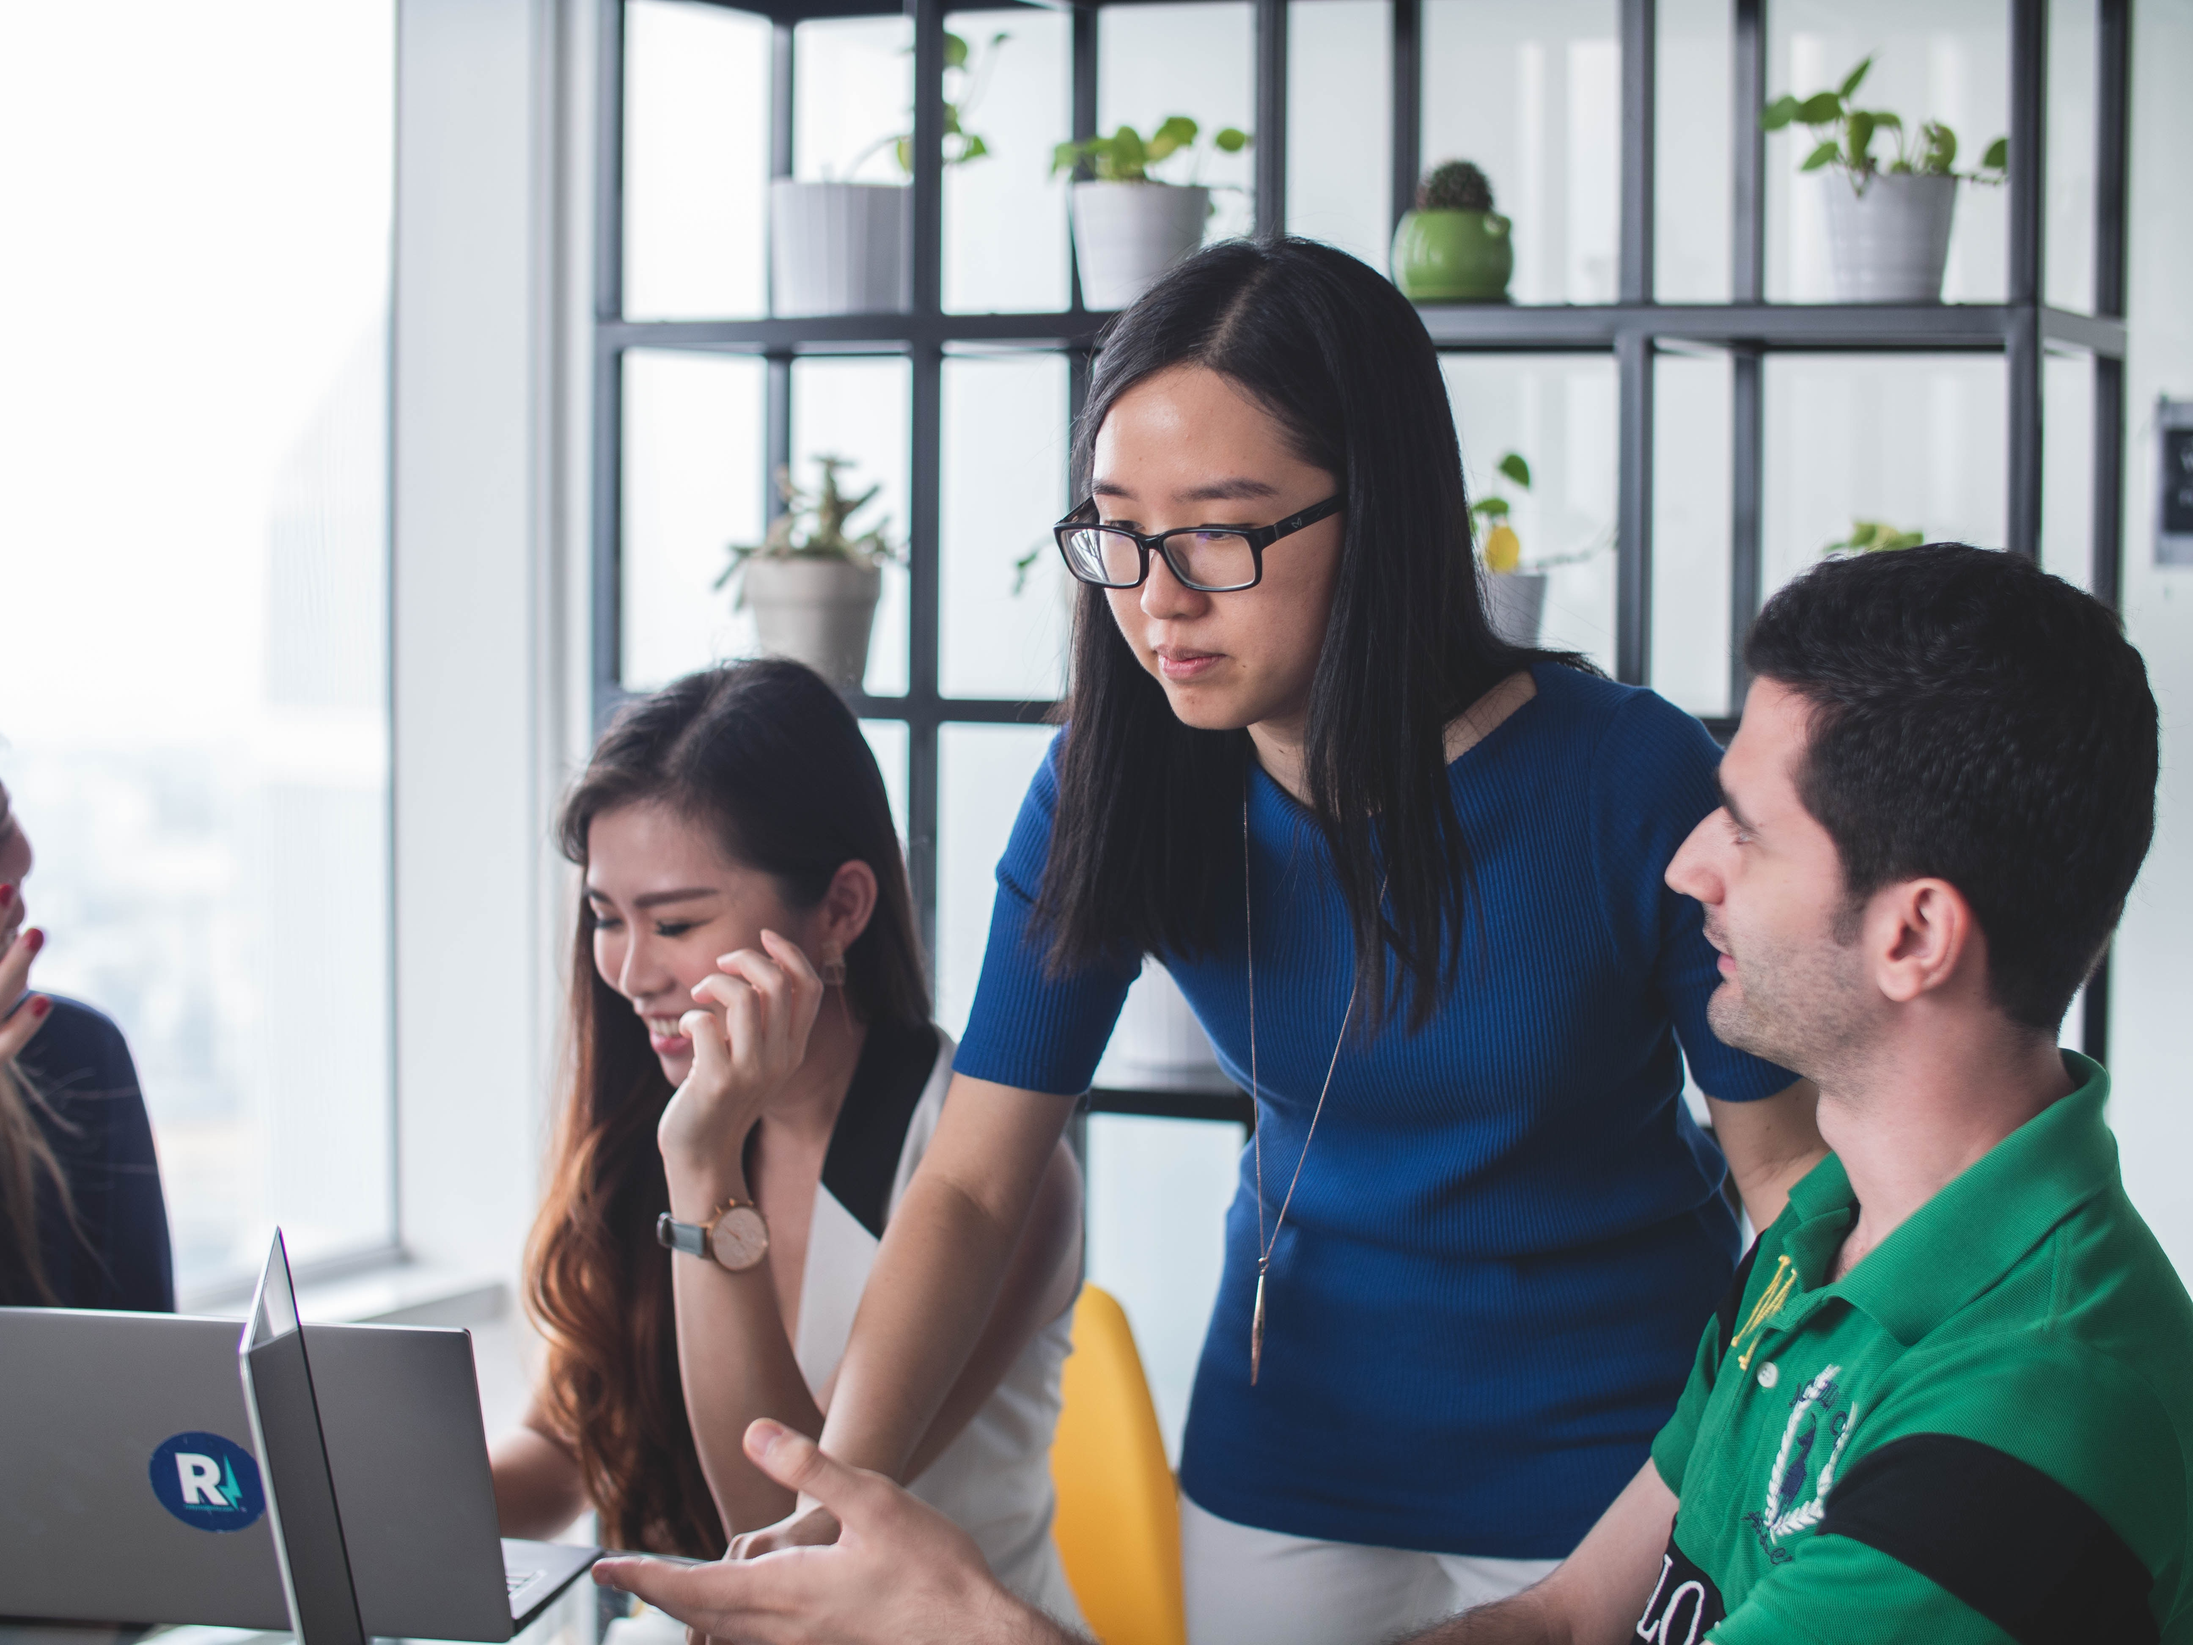
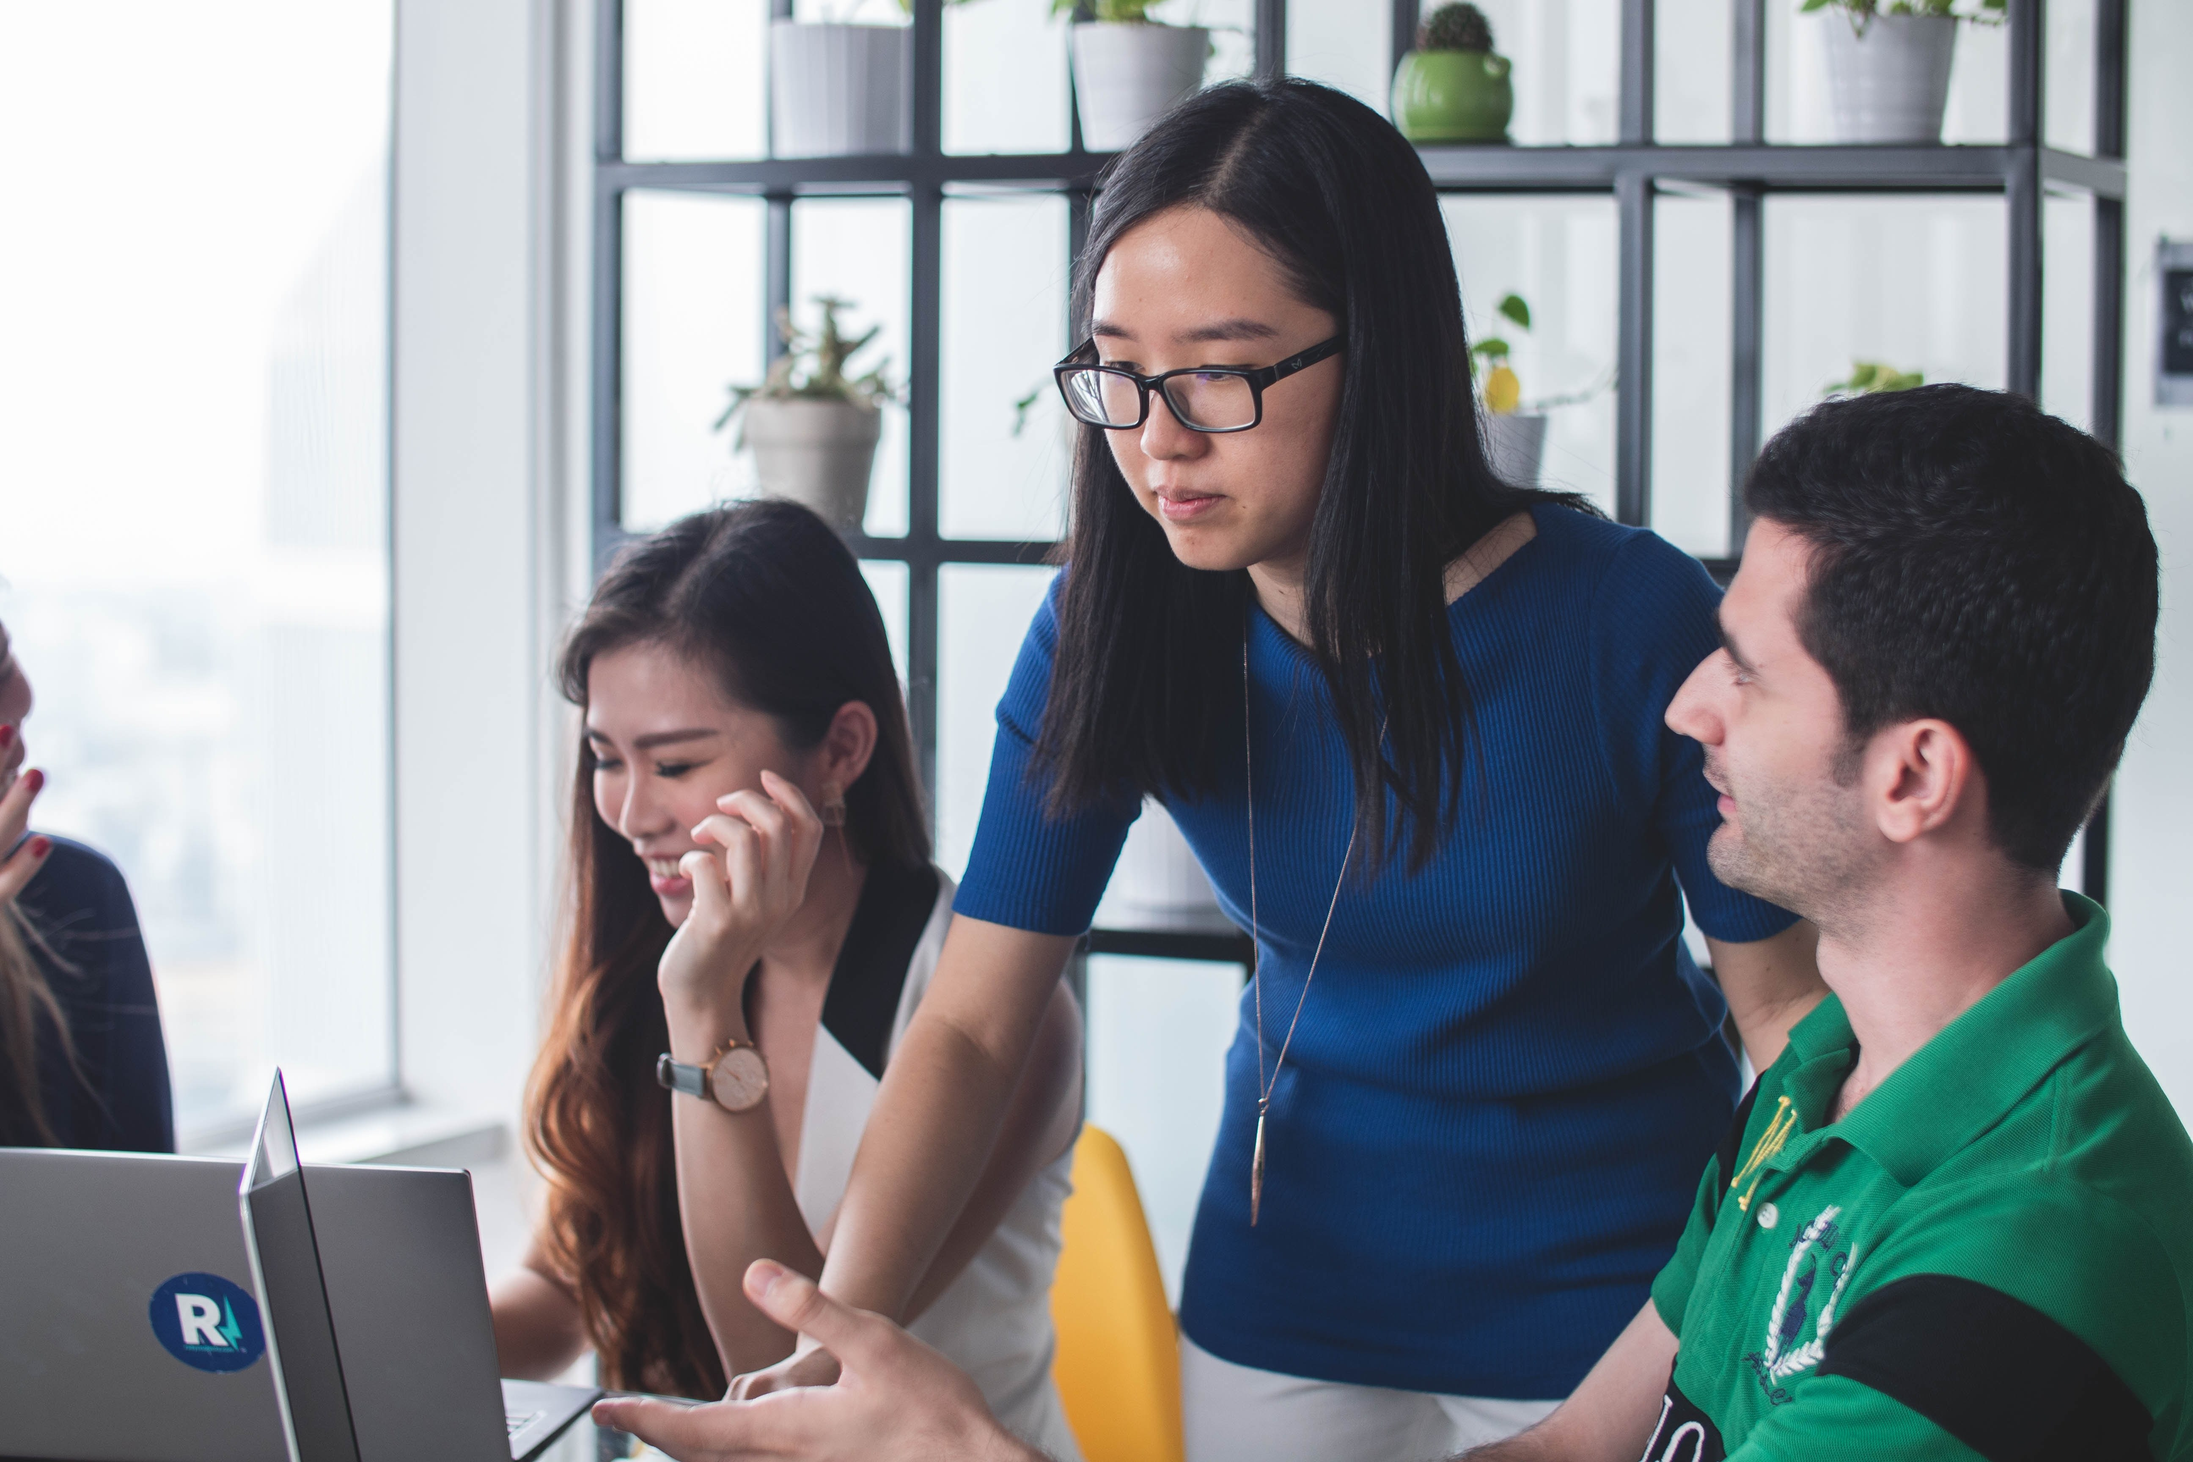
Fixed news images, image gallery

diff --git a/main.js b/main.js
@@ -53,7 +53,7 @@ var news = [
         title: 'Sample News',
         artdate: '25 March 2019',
         datetime: '2019-03-25',
-        image: '/images/news2.jpg',
+        image: '/images/image3.jpg',
         alttext: 'Sample Alt',
         text: '<p>Lorem ipsum dolor sit amet, consectetur adipiscing elit. Pellentesque eu purus eu ex lacinia dignissim' +
             '                efficitur ut justo. Phasellus orci nisl, euismod ac porttitor vitae, cursus sit amet ante. Praesent sit amet' +
@@ -95,7 +95,7 @@ var news = [
         title: 'Sample News',
         artdate: '25 March 2019',
         datetime: '2019-03-25',
-        image: '/images/news1.jpg',
+        image: '/images/image1.jpg',
         alttext: 'Sample Alt',
         text: '<p>Lorem ipsum dolor sit amet, consectetur adipiscing elit. Pellentesque eu purus eu ex lacinia dignissim' +
             '                efficitur ut justo. Phasellus orci nisl, euismod ac porttitor vitae, cursus sit amet ante. Praesent sit amet' +
@@ -123,7 +123,7 @@ var news = [
         title: 'Sample News',
         artdate: '25 March 2019',
         datetime: '2019-03-25',
-        image: '/images/news3.jpg',
+        image: '/images/image2.jpg',
         alttext: 'Sample Alt',
         text: '<p>Lorem ipsum dolor sit amet, consectetur adipiscing elit. Pellentesque eu purus eu ex lacinia dignissim' +
             '                efficitur ut justo. Phasellus orci nisl, euismod ac porttitor vitae, cursus sit amet ante. Praesent sit amet' +

diff --git a/static/main.css b/static/main.css
@@ -1,23 +1,12 @@
 @import url('//maxcdn.bootstrapcdn.com/font-awesome/4.3.0/css/font-awesome.min.css');
 
-/*IMAGE GALLERY*/
-.bd-example {
-    width:800px;
-    height:360px;
-    margin: auto;
-    position: center;
-}
-
-.carousel-item {
-    height: 500px;
-    overflow: hidden;
+/*IMAGES ON THE NEWS PAGE*/
+/*Scales the images within a set image size in the cards*/
+.card-img-top {
     width: 100%;
+    height: 10rem;
+    object-fit: cover;
 }
-.carousel-item img {
-    width: 100%;
-}
-
-/*END IMAGE GALLERY*/
 
 /*BUTTONS IN NAVIGATION*/
 .buttonHover {
@@ -304,9 +293,6 @@ a, a:hover {
 
 }
 .embed-container { position: relative; padding-bottom: 56.25%; height: 0; overflow: hidden; max-width: 100%; } .embed-container iframe, .embed-container object, .embed-container embed { position: absolute; top: 0; left: 0; width: 100%; height: 100%; }
-
-
-
 
  /*DROPDOWN MENU IN UNIVERSITIES INVOLVED PAGE*/
 .dropdown {
